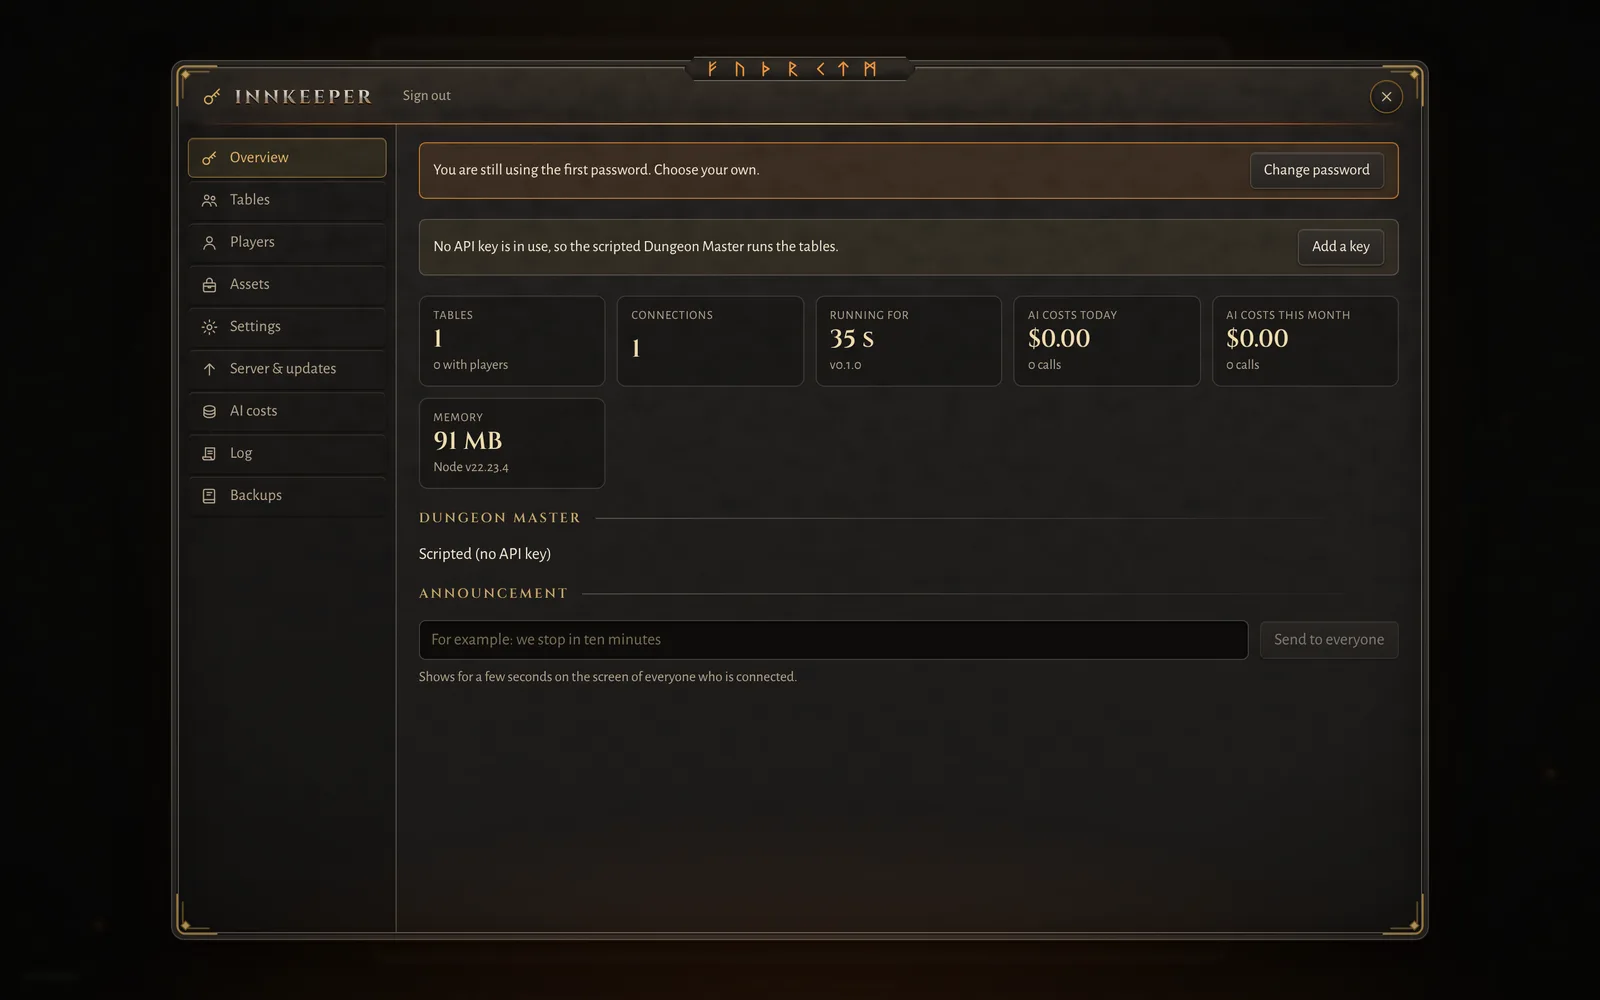
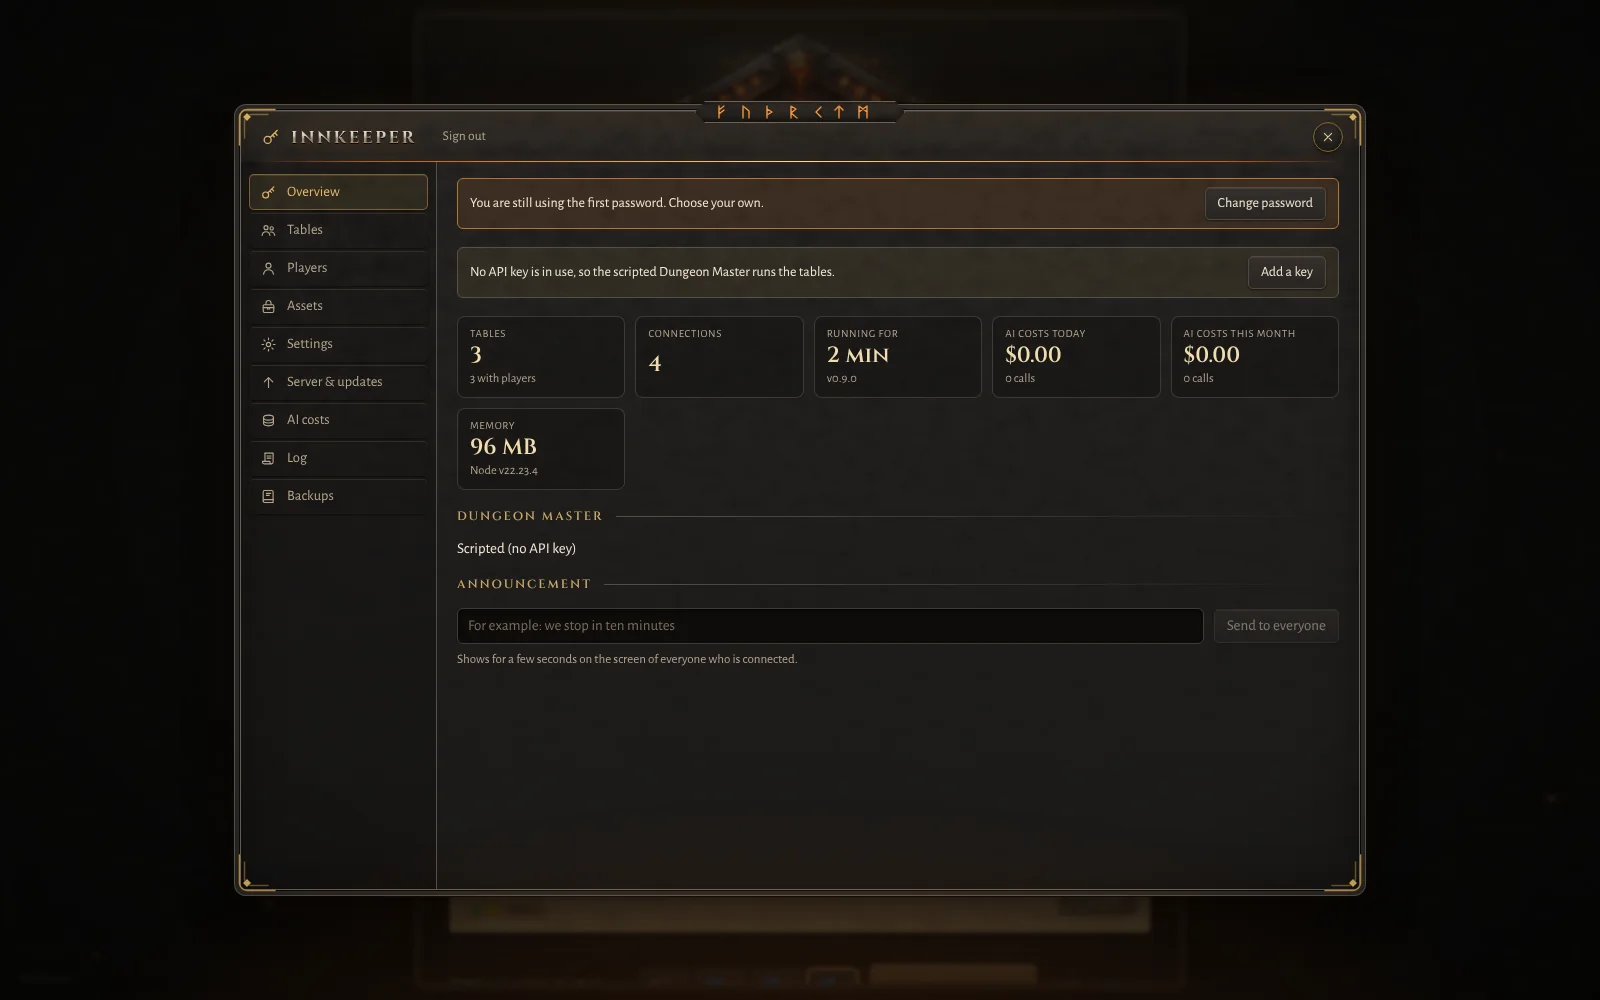
Release 0.9.0: version, changelog, play-test checklist, README screenshots
Claude-Session: https://claude.ai/code/session_01XfMCBoCYoKw5bN43qB1jMX

diff --git a/CHANGELOG.md b/CHANGELOG.md
@@ -1,0 +1,37 @@
+# Changelog
+
+## 0.9.0 (15 November 2026): first playtest release
+
+The first version meant for real play-testing with the live AI Dungeon Master. Features that have only been tested against the scripted fallback and the unit tests are listed in [docs/PLAYTEST.md](docs/PLAYTEST.md).
+
+### Rules content
+- **Monsters.** All 341 monsters of the SRD 5.2.1 with multiattack, breath weapons and area effects, conditions, regeneration, resistances, Magic and Legendary Resistance and legendary actions. The Dungeon Master searches the catalogue by name, type and Challenge (#28).
+- **Classes.** All twelve SRD classes, levels 1 to 20, subclasses at level 3, feats, epic boons and the class features with their own counters (#29).
+- **Spells and items.** All 339 spells and 239 magic items, attunement, wands and staffs with charges, hands and belt slots (#30).
+- **Icons** for skills, feats, spells and class features, from game-icons.net (#32).
+
+### Playing
+- **Open world.** Hex overworld, scene cards, DM memory and progression (#2). Battle maps that match the place of the fight (#6).
+- **Combat rules.** Opportunity attacks with a per-player reaction prompt, Disengage, light levels and darkvision (#27).
+- **Reputation.** Faction standing, rumours, trophies and undo (#26).
+- **Merchants.** Shops with real stock, buying, selling and haggling (#23).
+- **Start options.** Random regions, premises and a shareable world seed (#16).
+- **DM style.** Tone, rules strictness and content rating per table (#22).
+- **Heroes.** Character creator, premade heroes and guided level-up (#8); heroes drawn from species, looks and gear (#12); monsters drawn from a look the DM can restyle (#10).
+- **Multiplayer.** Lobby, seats, host and ready check, table talk and turn-taking (#13).
+- **English and German** (#3).
+
+### Look and sound
+- New logo and the forge theme (#20), shared window system, inventory, journal and character sheet (#14), a decluttered table room, creator and settings (#24).
+- Tavern look and music that follows the story (#4); 50 tracks and an ambient layer (#17); a free ambient pack from OpenGameArt (#25); CC0 ambient loops from Freesound with an API key (#31, #33).
+- Art packs in the browser and icon packs for items (#15).
+
+### Running it
+- **The Innkeeper**, an owner panel for settings, updates, tables, players, backups and costs (#18), with music, ambient sounds and art sources (#19).
+- One-line Proxmox installer and a Docker setup, self-updating through a small updater container.
+
+### Fixes
+- DM requests rejected with "compiled grammar is too large" (#9), the DM echoing players and hero gender (#5), items the DM invents now reach the inventory (#7), flickering inventory details (#11), a Freesound search that found nothing (#33), and a test that touched the network (#34).
+
+### Housekeeping
+- README rewritten with fresh screenshots (#21, and again for this release) and credits tidied.

diff --git a/README.md b/README.md
@@ -8,26 +8,40 @@ A self-hosted Dungeons & Dragons 5e game for your browser, run by an AI Dungeon 
 
 You run Hearthforge as one Docker container on your own server. You and your friends open it in a browser, build a party, and set out into an open world: a hex map to travel, a story told in scene cards, and a tactical grid that appears only when a fight breaks out. The server owns the rules and rolls every die. Claude narrates, plays everyone you meet and decides what the monsters do. Play alone with up to four heroes, or share a table with friends. There is always an AI Dungeon Master, never a human one.
 
+> **Version 0.9.0, ready for play-testing.** See the [changelog](CHANGELOG.md) and the [play-test checklist](docs/PLAYTEST.md) of what has not yet been played against the live AI Dungeon Master.
+
 <p align="center">
   <img src="docs/screenshots/story.webp" alt="The story view: party panel, a scene card, the hex map and quests" width="820">
+</p>
+
+<p align="center">
+  <img src="docs/screenshots/battle.webp" alt="A fight in a dungeon: battle map with light and darkness, initiative order, action bar and the story log" width="820">
 </p>
 
 <table>
   <tr>
     <td><img src="docs/screenshots/lobby.webp" alt="The lobby with the list of tables"></td>
-    <td><img src="docs/screenshots/table-room.webp" alt="A table room: region, opening and world seed"></td>
+    <td><img src="docs/screenshots/table-room.webp" alt="A table room with sixteen premade heroes, the adventure chips and Quick start"></td>
   </tr>
   <tr>
     <td align="center"><sub>Lobby</sub></td>
-    <td align="center"><sub>Table room: pick the region, the opening and the seed</sub></td>
+    <td align="center"><sub>Table room: pick heroes, region, opening and seed</sub></td>
   </tr>
   <tr>
     <td><img src="docs/screenshots/inventory.webp" alt="The inventory with paper-doll slots"></td>
-    <td><img src="docs/screenshots/character-sheet.webp" alt="The character sheet"></td>
+    <td><img src="docs/screenshots/character-sheet.webp" alt="The character sheet with skills, features and icons"></td>
   </tr>
   <tr>
     <td align="center"><sub>Inventory with paper-doll</sub></td>
     <td align="center"><sub>Character sheet</sub></td>
+  </tr>
+  <tr>
+    <td><img src="docs/screenshots/journal.webp" alt="The journal"></td>
+    <td><img src="docs/screenshots/battle-de.webp" alt="The same fight with the German interface"></td>
+  </tr>
+  <tr>
+    <td align="center"><sub>Journal</sub></td>
+    <td align="center"><sub>German interface (the story language is a separate table setting)</sub></td>
   </tr>
   <tr>
     <td colspan="2"><img src="docs/screenshots/innkeeper.webp" alt="The Innkeeper owner panel"></td>

diff --git a/docs/PLAYTEST.md b/docs/PLAYTEST.md
@@ -1,0 +1,38 @@
+# Play-test checklist for 0.9.0
+
+These features pass their automated tests and the scripted fallback, but have **not** been played against the live AI Dungeon Master (set `ANTHROPIC_API_KEY`). Play a short session with a spellcaster and a martial hero, tick what works and note what does not (the Innkeeper's **Log** page shows every DM call).
+
+## Spells
+- [ ] Cast an attack cantrip, a saving-throw spell (Fireball on a group) and a healing spell in a fight.
+- [ ] Cast at a higher level: mana drops by the right amount and the dice grow.
+- [ ] Concentration: cast two concentration spells in a row, and get hurt while concentrating.
+- [ ] A story-only spell (Detect Magic, Comprehend Languages) through the spellbook: the DM answers in line with the SRD text and a ritual costs no mana outside a fight.
+- [ ] A reaction spell (Shield, Counterspell) fires at the right moment.
+
+## Class features
+- [ ] Rage, Wild Shape, Lay on Hands, Divine Smite, Bardic Inspiration, Sneak Attack, Channel Divinity, sorcery points: each counter on the hero card goes down, and back up after a rest.
+- [ ] Level up to 3 and pick a subclass; the level-up screen offers sensible choices and spells.
+- [ ] The DM does not give or take away class resources by itself.
+
+## Monsters
+- [ ] Ask the DM for an encounter by name, by type and by Challenge: it finds a fitting monster (monster search).
+- [ ] A multiattack monster, a breath weapon, a condition (grapple, frightened) and a legendary action all play out in the combat log.
+- [ ] The DM warns when a fight is too hard for the party.
+
+## Reputation and merchants
+- [ ] Help or wrong a faction and see the standing change in the journal; rumours turn up in conversation; **undo** takes a deed back.
+- [ ] Open a shop through the DM (curio shop, road peddler) and buy, sell and haggle.
+
+## DM style
+- [ ] Change tone, rules strictness and content rating in the table room, play a few beats, and check that the narration follows them.
+
+## Sound and art
+- [ ] Freesound: add an API key under Innkeeper → Settings → Playing and check that CC0 ambient loops are fetched and credited.
+- [ ] Combat action bar icons (Attack, spells, features) and skill, feat and spell icons show on the sheet.
+
+## Multiplayer
+- [ ] Two browsers at one table: seats, ready check, whisper in table talk, an opportunity-attack prompt that waits for the right player only.
+- [ ] Reload one browser mid-fight and get the seat back.
+
+## Report
+Note anything odd with the seed (`World seed:` in the game log) and the Innkeeper log lines, so it can be replayed.
